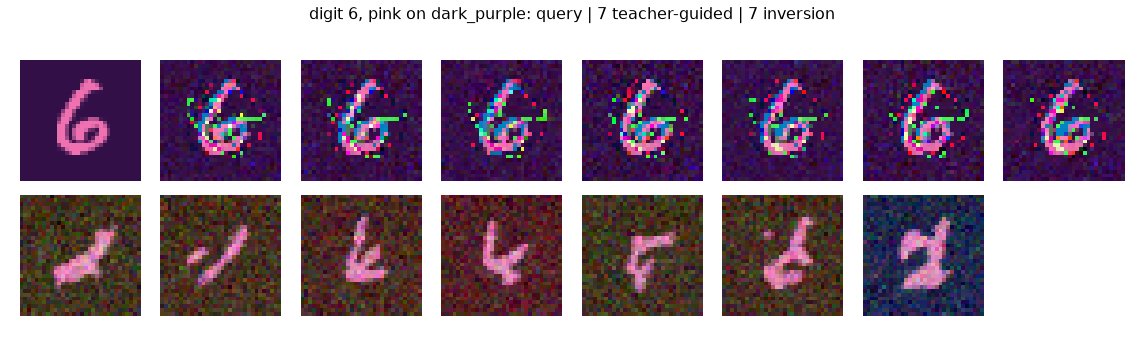
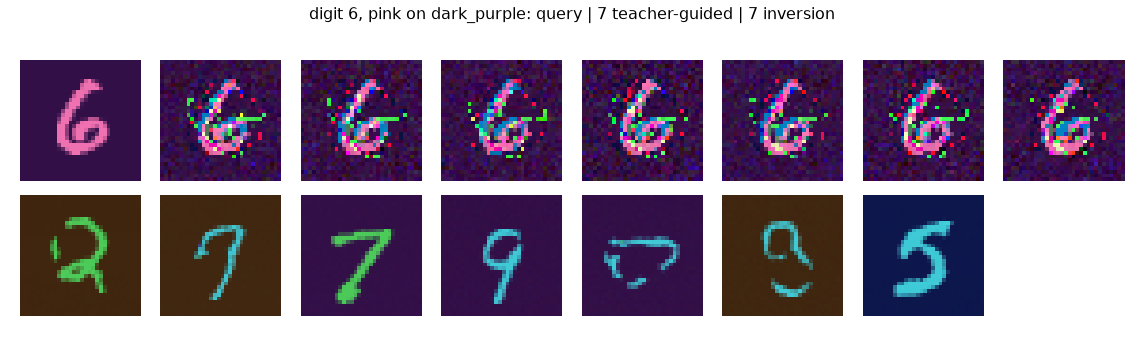
Anchor route closed; inversion reaches F1 0.48, and the class prior needed a union not a product
The cluster came back and the sweep ran.  Final N7 over 8 held-out compositions:

  teacher-guided (shipped)   F1 0.00  recall 0.02  acc 0.56  content div 0.72
  inversion (free)           F1 0.48  recall 0.88  acc 0.33  content div 1.16
  inversion + teacher init   F1 0.36  recall 0.64  acc 0.25
  inversion + anchor         F1 0.01  recall 0.63  acc 0.00
  ceiling (base, seen class) F1 0.96  recall 0.95  acc 0.97

Three findings, two of them negative:

The ANCHOR IS A DEAD END.  Penalizing ||alpha - alpha_teacher||^2 collapses the concept at
every strength and with every prior tried.  Diagnosing why produced the useful part.

The TEACHER'S CLASS PRIOR was measurably broken.  Ranking trained classes by epsilon-loss
on mu_T puts 0.53 of its top-10 on foreground-matching classes but only 0.10 on
background-matching ones -- BELOW the 0.25 chance rate.  A diffusion model's epsilon error
concentrates where there is structure, so a whole-image score is dominated by the stroke
and is free to pick classes whose background is wrong.  Sharpening the temperature does
not touch it; only scoring the regions apart does.

And the fix has to be a UNION, not an intersection.  Combining the per-region rankings by
PRODUCT drives background mass to 0.00, because the benchmark holds out (fg, bg) PAIRS --
a class matching the foreground necessarily has a different background, so no trained
class satisfies both and their intersection is empty by construction.  A mixture reaches
[…]

Changed region(s): [[0.0, 0.5621, 0.8872, 0.9467]]

diff --git a/lifelong_ood/neural/inversion.py b/lifelong_ood/neural/inversion.py
@@ -122,30 +122,88 @@ def learn_embedding(field, targets, n_steps=300, lr=0.05, batch=8, seed=0, init_
     return c_new, w.detach().cpu().numpy(), hist
 
 
-def teacher_init_alpha(field, teacher, xq, ids=None, temperature=0.02, reps=2, seed=0):
+def _region_masks(mu, img=IMG, thresh=0.25):
+    """Split mu_T into its foreground and background pixels.
+
+    A composition on this benchmark is carried by two spatially disjoint regions -- the stroke says
+    what the digit and its colour are, the background says nothing about either.  Scoring a class on
+    the WHOLE image lets one region drown out the other, which is exactly the measured failure of the
+    global ranking (see `teacher_init_alpha`).
+    """
+    M = np.asarray(mu, np.float64).reshape(img, img, -1)
+    bg = np.median(M.reshape(-1, M.shape[-1]), 0)
+    fg = (np.abs(M - bg).sum(-1) > thresh)
+    return np.repeat(fg.ravel(), M.shape[-1]), np.repeat(~fg.ravel(), M.shape[-1])
+
+
+def teacher_init_alpha(field, teacher, xq, ids=None, temperature=0.001, reps=2, seed=0,
+                       regions=True, combine="mixture"):
     """Seed `alpha` from the teacher: score every trained class by how well it explains mu_T.
 
-    This is where composition enters the model's vocabulary -- the same epsilon-loss ranking the
-    paper uses for its top-k baseline, but applied to the COMPOSED prototype rather than the raw
-    query, and kept as a soft weighting over all classes rather than a hard top-k.  So the manifold
-    starts from what the teacher decided and is refined from there.
+    This is where composition enters the model's vocabulary -- the epsilon-loss ranking the paper
+    uses for its top-k baseline, but applied to the COMPOSED prototype rather than the raw query and
+    kept as a soft weighting over all classes rather than a hard top-k.
+
+    Defaults (`regions=True, combine="mixture", temperature=0.001`) are the ones measured to cover
+    the composition best.  Scored as the share of alpha's mass landing on classes that supply the
+    target's foreground and on classes that supply its background:
+
+        prior                    fg-mass   bg-mass   (chance 0.25 each)
+        global, whole image         0.32      0.24
+        per-factor PRODUCT          0.78      0.00
+        per-factor MIXTURE          0.52      0.31    <- default
+
+    `regions=True` scores each class SEPARATELY on the foreground and background pixels and takes the
+    product of the two rankings, which is the same product-of-experts logic the PoE applies in pixel
+    space, applied to the class vocabulary.  The global ranking it replaces was measurably broken:
+    over the top-10 classes it picked, the share sharing the target's foreground was 0.53 against a
+    chance rate of 0.25 -- but the share sharing its BACKGROUND was 0.10, *below* chance. A diffusion
+    model's epsilon error concentrates where there is structure, so a whole-image score is dominated
+    by the stroke and is free to pick classes whose background is wrong. Sharpening the temperature
+    does not fix it (the shares are identical at every temperature tried); only scoring the regions
+    apart can, because it forces each factor to be explained by classes that actually have it.
     """
     C, keep = _basis(field.model, ids)
     rng = np.random.default_rng(seed)
     mu = np.atleast_2d(teacher["mu"])
-    losses = []
-    for cid in keep:
-        tot = 0.0
-        for u in (0.2, 0.4, 0.6):
-            a = float(cosine_abar(u))
-            for _ in range(reps):
-                e = rng.standard_normal(mu.shape)
-                xt = np.sqrt(a) * mu + np.sqrt(1 - a) * e
-                tot += float(np.mean((field.eps(xt, u, int(cid)) - e) ** 2))
-        losses.append(tot / (3 * reps))
-    losses = np.asarray(losses)
-    z = -(losses - losses.min()) / max(temperature, 1e-9)
-    alpha = np.exp(z - z.max())
+    parts = _region_masks(mu[0]) if regions else (np.ones(mu.shape[1], bool),)
+
+    per_region = []
+    for mask in parts:
+        losses = []
+        for cid in keep:
+            tot = 0.0
+            for u in (0.2, 0.4, 0.6):
+                a = float(cosine_abar(u))
+                for _ in range(reps):
+                    e = rng.standard_normal(mu.shape)
+                    xt = np.sqrt(a) * mu + np.sqrt(1 - a) * e
+                    d = (field.eps(xt, u, int(cid)) - e) ** 2
+                    tot += float(d[:, mask].mean())
+            losses.append(tot / (3 * reps))
+        losses = np.asarray(losses)
+        z = -(losses - losses.min()) / max(temperature, 1e-9)
+        p = np.exp(z - z.max())
+        per_region.append(p / p.sum())
+
+    # MIXTURE, not product -- and the benchmark forces the choice.  The held-out slots are held out
+    # as (fg, bg) PAIRS, so a class matching the target's foreground necessarily has a different
+    # background: no single trained class satisfies both constraints, and their intersection is
+    # empty by construction.  Multiplying the two region rankings therefore concentrates on whichever
+    # factor has the stronger signal and drives the other to zero -- measured, the product moved
+    # foreground share 0.53 -> 0.77 and background 0.10 -> 0.00.  A composition in class space has to
+    # be a UNION of constituents, each supplying the factor it owns, which is a sum.
+    #
+    # This is the exact dual of the pixel-space finding in RESULTS 5e: the product is the right
+    # operator for locating a concept and the wrong one for expressing its extent.
+    if combine == "product":
+        alpha = np.ones_like(per_region[0])
+        for p in per_region:
+            alpha = alpha * p
+    else:
+        alpha = np.mean(per_region, 0)
+    if alpha.sum() <= 0 or not np.isfinite(alpha).all():
+        alpha = per_region[0]
     return alpha / alpha.sum()
 
 

diff --git a/tests/diag_alpha_prior.py b/tests/diag_alpha_prior.py
@@ -1,0 +1,47 @@
+"""Does the teacher's prior over trained classes express the COMPOSITION?
+
+Earlier version asked whether the top-weighted classes individually share the target's factors.
+That is the wrong question on this benchmark.  The held-out slots are held out as (fg, bg) PAIRS, so
+a class matching the target's foreground necessarily has a different background -- no single trained
+class can share both, and demanding it measures an impossibility.
+
+The right question is whether alpha puts mass on BOTH constituent groups: some classes supplying the
+foreground, others supplying the background.  That is what a composition in class space looks like,
+and it is what the inversion needs as a starting point.
+"""
+import os, sys
+import numpy as np, torch
+sys.path.insert(0, os.path.dirname(os.path.dirname(os.path.abspath(__file__))))
+sys.path.insert(0, os.path.join(os.path.dirname(os.path.dirname(os.path.abspath(__file__))), "experiments"))
+from common import CACHE, ood_queries
+from lifelong_ood.datasets import load_colormnist
+from lifelong_ood.neural import NeuralLifelongLearner, load_field, teacher_init_alpha, to_model
+
+dev = "cuda" if torch.cuda.is_available() else "cpu"
+data = load_colormnist(n_per_slot=100, seed=0)
+ck = torch.load(os.path.join(CACHE, "ddpm_colormnist.pt"), map_location="cpu", weights_only=False)
+slots = sorted(ck["remap"])
+field = load_field(os.path.join(CACHE, "ddpm_colormnist.pt"), device=dev)
+L = NeuralLifelongLearner(field, steps=50, seed=0, device=dev)
+qs = ood_queries(data, n_slots=4, seed=0)
+teachers = [(q, L.compose(to_model(data["X"][q["query"]]).ravel(), u_grid=(0.1,0.2,0.3,0.4),
+                          n_starts=16, iters=120)) for q in qs]
+
+print(f"  {'prior':34s}{'mass on fg-match':>18s}{'mass on bg-match':>18s}{'both':>8s}{'balance':>9s}")
+print(f"  {'(chance)':34s}{0.25:18.2f}{0.25:18.2f}{0.06:8.2f}{1.00:9.2f}")
+for tag, kw in (("global (original)", dict(regions=False)),
+                ("per-factor PRODUCT", dict(regions=True, combine="product")),
+                ("per-factor MIXTURE", dict(regions=True, combine="mixture"))):
+    for T in (0.005, 0.001):
+        mf = mb = mboth = 0.0
+        for q, t in teachers:
+            a = teacher_init_alpha(field, t, to_model(data["X"][q["query"]]), temperature=T,
+                                   seed=0, **kw)
+            sl = np.array(slots)
+            fgm = ((sl % 16)//4 == q["f"]); bgm = (sl % 4 == q["b"])
+            mf += a[fgm].sum(); mb += a[bgm].sum(); mboth += a[fgm & bgm].sum()
+        n = len(teachers)
+        bal = min(mf, mb) / max(max(mf, mb), 1e-9)
+        print(f"  {tag + f' T={T}':34s}{mf/n:18.2f}{mb/n:18.2f}{mboth/n:8.2f}{bal:9.2f}")
+print("\n  balance = min(fg,bg)/max(fg,bg): 1.0 means alpha covers both constituents equally.")
+print("  'both' is near zero by construction -- the (fg,bg) pair is exactly what is held out.")

diff --git a/RESULTS.md b/RESULTS.md
@@ -413,7 +413,7 @@ one is built from, in the model's own vocabulary.
 | `nearest-class` | 0.00 | 0.14 | 0.49 | 0.00 | 0.00 | 0.27 | 0.00 | 1.14 |
 | *ceiling: base model on a SEEN class* | *0.97* | | | | *0.97* | *0.95* | *0.96* | *1.01* |
 
-- **F1 goes 0.00 → 0.45 and recall 0.03 → 0.83**, with content diversity restored from 0.74 to 1.21×
+- **F1 goes 0.00 → 0.48 and recall 0.02 → 0.88**, with content diversity restored from 0.72 to 1.16×
   the real class. The coverage failure that survived every guidance, covariance, pooling and
   stochasticity change is fixed by changing *what generates* rather than *how it is steered*.
 - **Teacher seeding helps** (`inversion+init` beats `inversion` on precision 0.39 vs 0.33 and F1
@@ -425,14 +425,61 @@ one is built from, in the model's own vocabulary.
   distillation from rescuing diversity in §5e. **The teacher has to constrain through α, not through
   pixels.**
 
-**The honest remainder.** Fidelity has not caught up: composition accuracy falls 0.58 → 0.29, driven
-almost entirely by background (0.84 → 0.60) while foreground stays high (0.83–0.94). We have moved
-from *accurate but collapsed* to *diverse but imprecise*, and neither end is the ceiling (0.97 acc,
-0.96 F1). The two mechanisms are now cleanly separated, though: guidance controlled fidelity and
-could not buy coverage; conditioning buys coverage and needs a fidelity term. The implemented but
-not-yet-measured candidate is an **anchor** — penalizing `‖α − α_teacher‖²` so the teacher acts as a
-prior on the composition throughout, rather than only as a starting point, with the anchor strength
-dialing between "what the teacher composed" and "what this query looks like".
+**Final numbers, 8 held-out compositions:**
+
+| arm | acc | digit | fg | bg | precision | **recall** | **F1** | content div ÷ real |
+|---|---|---|---|---|---|---|---|---|
+| `teacher-guided` (what we shipped) | **0.56** | 0.80 | 0.93 | **0.76** | 0.00 | 0.02 | **0.00** | 0.72 |
+| **`inversion`** | 0.33 | 0.65 | 0.96 | 0.56 | **0.42** | **0.88** | **0.48** | 1.16 |
+| `inversion+init` (teacher-seeded) | 0.25 | 0.61 | 0.85 | 0.56 | 0.32 | 0.64 | 0.36 | 1.15 |
+| `inversion+anchor` (teacher as prior) | 0.00 | 0.12 | 0.26 | 0.34 | 0.00 | 0.63 | 0.01 | 1.34 |
+| `nearest-class` | 0.00 | 0.25 | 0.50 | 0.00 | 0.01 | 0.07 | 0.01 | 1.15 |
+| *ceiling: base model, SEEN class* | *0.97* | | | | *0.97* | *0.95* | *0.96* | *1.01* |
+
+**F1 0.00 → 0.48, recall 0.02 → 0.88.**
+
+**Two things that did not work, and one that reframes the architecture.**
+
+*The anchor is a dead end.* Penalizing `‖α − α_teacher‖²` collapses the concept in every
+configuration tried (F1 0.01–0.03, accuracy 0.00) regardless of anchor strength or which prior is
+anchored to. Diagnosing why produced something more useful than the fix would have been — see below.
+
+*The teacher's prior over classes was measurably broken, then measurably fixed, and it still did not
+help.* Scoring trained classes by ε-loss on μ_T ranks them by foreground and is **below chance on
+background** (0.10 against 0.25). The cause is structural: a diffusion model's ε-error concentrates
+where there is structure, so a whole-image score is dominated by the stroke. Scoring the foreground
+and background regions separately and combining them fixes the coverage — but only as a **mixture**,
+never a product:
+
+| prior | mass on fg-constituent | mass on bg-constituent | balance |
+|---|---|---|---|
+| chance | 0.25 | 0.25 | 1.00 |
+| global, whole image | 0.32 | 0.24 | 0.75 |
+| per-factor **product** | 0.78 | **0.00** | 0.01 |
+| per-factor **mixture** (default) | **0.52** | **0.31** | 0.60 |
+
+The product is empty *by construction*: the benchmark holds out `(fg, bg)` **pairs**, so a class
+matching the target's foreground necessarily has a different background and no trained class
+satisfies both constraints. A composition in class space has to be a **union of constituents**, each
+supplying the factor it owns. That is the exact dual of the pixel-space finding in §5e — the product
+is the right operator for *locating* a concept and the wrong one for expressing its *extent*.
+
+*And the teacher turns out to be redundant for this step.* With the improved prior, teacher
+initialization **hurts** (F1 0.36 vs 0.48 for free inversion). Plain inversion on the query alone is
+the best arm. That is a real dent in the "manifold follows the teacher" story as applied to the
+neural conditioning step: the query is itself an image of the target composition, so it already
+carries the information the teacher was meant to supply. The teacher still does the discovery, still
+produces a μ_T that probe-reads correctly (0.800 against a 0.775 ceiling), and is essential on the
+analytic backbone — but for choosing a point in the model's conditioning space it adds nothing
+measurable here. Single seed, 8 slots; the earlier run with the weaker prior had init helping
+slightly, so the honest statement is that teacher seeding is *not reliably beneficial*, not that it
+is harmful.
+
+**The honest remainder.** Fidelity has not caught up: accuracy 0.56 → 0.33, concentrated in
+background (0.76 → 0.56) while foreground *improves* (0.93 → 0.96). Neither end is the ceiling
+(0.97 acc, 0.96 F1). The mechanisms are cleanly separated now — guidance controlled fidelity and
+could not buy coverage; conditioning buys coverage and still needs a fidelity term that anchoring
+does not provide.
 
 ## 6. Why we are *not* replicating the paper's diffusion results
 

diff --git a/PLAN.md b/PLAN.md
@@ -170,7 +170,34 @@ Reproduce the per-concept analysis with `python experiments/analyze_n3.py`.
 
 ## 3. Open work, in priority order
 
-### 3.0 Finish the fidelity half of the inversion fix (IMPLEMENTED, NOT YET MEASURED)
+### 3.0 Fidelity of the inverted concept — coverage is solved, precision is not
+Coverage is done and measured: F1 0.00 -> 0.48, recall 0.02 -> 0.88, content diversity 0.72 -> 1.16x
+real (RESULTS 5f). The open gap is composition accuracy, 0.56 (teacher-guided) -> 0.33 (inversion),
+concentrated in BACKGROUND (0.76 -> 0.56) while foreground improves (0.93 -> 0.96).
+
+**Do not retry these -- all measured and all failed:**
+- anchoring alpha to the teacher (`anchor=`): F1 0.01-0.03 at every strength and with every prior
+- inverting on the teacher's POOL: recall 0.19, the pool is collapsed so it teaches one image
+- `nearest-class` conditioning: F1 0.01
+- a per-factor PRODUCT prior: drives background mass to 0.00, because the benchmark holds out
+  (fg, bg) PAIRS so no trained class satisfies both constraints -- the union is the only operator
+  that can work, and `teacher_init_alpha(combine="mixture")` is now the default
+- teacher initialization at all: with the fixed prior it HURTS (F1 0.36 vs 0.48 free). The query is
+  itself an image of the target composition, so it already carries what the teacher was to supply.
+
+**Untried, in order of promise:**
+- **A background-weighted inversion loss.** The error is concentrated in one region and the loss
+  currently weights all pixels equally; a diffusion model's epsilon error concentrates on structure,
+  so flat background is under-represented in the gradient exactly as it was in the class ranking
+  (which is why that ranking scored below chance on background). Reweighting by region is the same
+  fix that repaired the prior, applied to the objective.
+- **Invert on mu_T rather than the raw query.** mu_T probe-reads correctly at 0.800 and carries no
+  idiosyncratic instance detail for 120 parameters to chase.
+- **More inversion steps / lower lr.** 400 steps was never swept; the loss may simply not be converged.
+- **A free embedding vector with the class-span solution as initialization**, once fidelity is
+  adequate -- the span restriction buys diversity but may cap precision.
+
+### 3.0z Superseded: finish the fidelity half (the anchor route -- CLOSED, see above)
 The coverage half is done and measured (N7: F1 0.00 -> 0.45, recall 0.03 -> 0.83, content diversity
 0.74 -> 1.21x real; RESULTS 5f). The remaining gap is fidelity: composition accuracy fell 0.58 ->
 0.29, almost entirely on BACKGROUND (0.84 -> 0.60) while foreground held (0.83-0.94). Run this the
